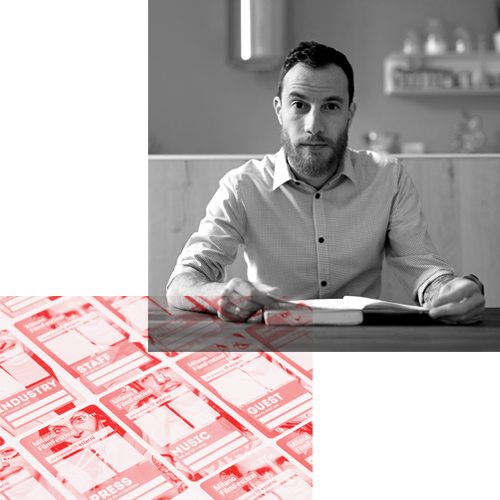
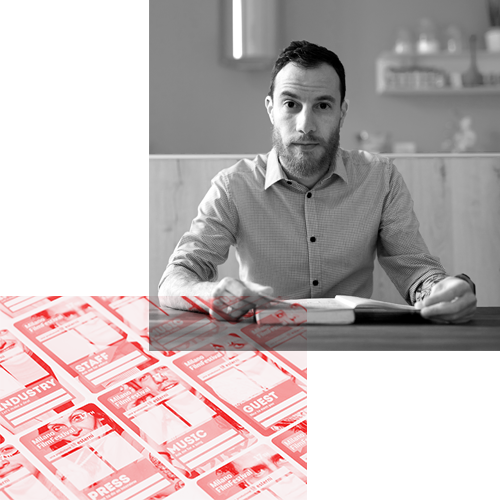
Hero Update

diff --git a/src/components/hero.jsx b/src/components/hero.jsx
@@ -103,13 +103,32 @@ function scrollToArchive() {
 const Hero = () => {
     const data = useStaticQuery(graphql`
         query HeroImage {
-            file(relativePath: { eq: "bitmap-hero.png" }) {
-                childImageSharp {
-                    fluid(
-                        maxWidth: 1000
-                        duotone: { highlight: "#ee0202", shadow: "#ee0202" }
-                    ) {
-                        ...GatsbyImageSharpFluid
+            allMarkdownRemark(
+                filter: {
+                    fileAbsolutePath: { regex: "/extras/" }
+                    frontmatter: { content_type: { eq: "Conversazione" } }
+                }
+                limit: 1
+                sort: { order: DESC, fields: frontmatter___date }
+            ) {
+                edges {
+                    node {
+                        frontmatter {
+                            name
+                            conv_bitmap {
+                                childImageSharp {
+                                    fluid(
+                                        maxWidth: 800
+                                        duotone: {
+                                            highlight: "#ee0202"
+                                            shadow: "#ee0202"
+                                        }
+                                    ) {
+                                        ...GatsbyImageSharpFluid
+                                    }
+                                }
+                            }
+                        }
                     }
                 }
             }
@@ -154,7 +173,10 @@ const Hero = () => {
                 <div id="hero-arrows"></div>
             </div>
             <NonStretchedImage
-                fluid={data.file.childImageSharp.fluid}
+                fluid={
+                    data.allMarkdownRemark.edges[0].node.frontmatter.conv_bitmap
+                        .childImageSharp.fluid
+                }
                 imgStyle={{ objectFit: 'contain' }}
                 style={{
                     gridColumn: '8/13',

diff --git a/contents/extras/conversations/paolo-insinga-conversazione.md b/contents/extras/conversations/paolo-insinga-conversazione.md
@@ -3,6 +3,7 @@ name: Paolo Insinga Conversazione
 content_type: Conversazione
 designer:
     - Paolo Insinga
+conv_bitmap: ../../../static/assets/bitmap-hero.png
 date: 2019-11-28T00:00:00.000Z
 ---
 
@@ -30,18 +31,14 @@ Dal punto di vista espressivo, ad esempio, si possono indivisuare i trend attual
 
 Non ho deciso io come singolo ma è stato un lavoro in team che ha coinvolto anche altri uffici e il nostro direttore creativo globale. Per quanto riguarda il rischio non c’è una misura generale, bisogna saper leggere il contesto in cui si sta operando e fornire al cliente gli strumenti per poter dare fiducia al progetto, anche con analisi di natura economica per individuare i potenziali rischi.
 
-
-
-
-
 ### Com’è venuta l’idea per il nuovo volto della Juventus?
 
 È nata inizialmente su un taccuino facendo degli schizzi e leggendo alcune interviste. Negli archivi abbiamo trovato una citazione di Gianni Agnelli in cui diceva che ogni volta che vedeva la lettera “J” sui giornali si emozionava, subito allora abbiamo pensato che questa lettera contenesse un valore simbolico e l’abbiamo rielaborata tenendo presenti alcuni tratti caratterizzanti del mondo calcistico. Volevamo un segno che fosse capace sia di rappresentare un simbolo per i tifosi sia che fosse idoneo a comparire in altri ambienti.
 
 ### Quanto i tuoi gusti o le tue passioni influenzano la progettazione? 
 
-Noi siamo in generale il prodotto di ciò che consumiamo, quindi lo stesso esercizio di design svolto da team diversi porta sempre a esiti diversi. Questo succede perchè ognuno ha il proprio  background culturale e ciò influenza come si reagisce alle diverse situazioni.
+Noi siamo in generale il prodotto di ciò che consumiamo, quindi lo stesso esercizio di design svolto da team diversi porta sempre a esiti diversi. Questo succede perchè ognuno ha il proprio background culturale e ciò influenza come si reagisce alle diverse situazioni.
 
 ### Ci sono delle esperienze che consideri particolarmente formative per il tuo settore / consigli che vorresti lasciarci?
 
-Io credo molto nella lettura, nel disegnare le proprie idee e nell’ascoltare attivamente le tematiche che si discutono quando si incontra un cliente o un potenziale utente di ciò che si sta progettando. Il disegno è il punto di partenza dell’immaginazione di nuovi mondi, la lettura ti permette di argomentare ciò che stai realizzando per trasferire la tua idea al cliente in modo efficace. Il cliente inoltre conosce sempre meglio di te il settore nel quale opera, quindi questo scambio con il cliente e con chi ha una formazione diversa dalla tua è la ricetta per fare delle belle cose. 
+Io credo molto nella lettura, nel disegnare le proprie idee e nell’ascoltare attivamente le tematiche che si discutono quando si incontra un cliente o un potenziale utente di ciò che si sta progettando. Il disegno è il punto di partenza dell’immaginazione di nuovi mondi, la lettura ti permette di argomentare ciò che stai realizzando per trasferire la tua idea al cliente in modo efficace. Il cliente inoltre conosce sempre meglio di te il settore nel quale opera, quindi questo scambio con il cliente e con chi ha una formazione diversa dalla tua è la ricetta per fare delle belle cose.

diff --git a/contents/extras/conversations/ll-type-design-in-italia.md b/contents/extras/conversations/ll-type-design-in-italia.md
@@ -3,7 +3,8 @@ name: Il Type design in Italia
 content_type: Conversazione
 designer:
     - Beatrice D'Agostino
-date: 2019-11-28T00:00:00.000Z
+conv_bitmap: ../../../static/assets/bitmap-hero.png
+date: 2019-11-30T00:00:00.000Z
 ---
 
 ### Ciao Beatrice, chi sei e di cosa ti occupi?
@@ -17,7 +18,7 @@ Mi occupo anche dell’insegnamento della materia e a breve uscirà un carattere
 Durante l'esperienza universitaria non mi sono mai interessata molto a questa materia, ho frequentato durante la triennale la facoltà di moda e mi sono occupata più della parte grafica. Quando poi ho intrapreso il percorso in Design della Comunicazione la tipografia mi ha subito affascinata ma la ritenevo molto difficile, infatti l’amore per il type design è nato in un secondo momento durante il tirocinio a Berlino in uno studio tedesco.  
 Mi è piaciuta da subito l’idea di lavorare su qualcosa in cui i dettagli sono molto importanti ma al tempo stesso quasi impercettibili, infatti quando osservi un alfabeto o un paragrafo realizzato con un determinato carattere, non vedi i dettagli delle singole lettere ma ciò che sono in grado di restituirti nel loro insieme, questa è la magia del type design.
 
-![Il type design in Italia - Iki Mono Font Showreel](../../static/assets/extra-il-type-design-in-italia-01.png)
+![Il type design in Italia - Iki Mono Font Showreel](../../../static/assets/extra-il-type-design-in-italia-01.png)
 
 ### Come hai vissuto il passaggio da moda a comunicazione?
 
@@ -29,7 +30,7 @@ Ho deciso poi che sarei passata a Comunicazione perché mi piaceva l’idea di f
 
 In Italia ci sono stati tempi d’oro per la tipografia risalenti ad esempio a Manuzio, però poi dopo Novarese questo ambito si è un pò spento e siamo in pochi ora rispetto a prima. Quando sono rientrata da Berlino infatti è piaciuta subito la preparazione che racchiudeva conoscenze di type design e ho trovato il mio spazio qui a Milano.
 
-![Hopper The Rabbit](../../static/assets/extra-il-type-design-in-italia-02.png)
+![Hopper The Rabbit](../../../static/assets/extra-il-type-design-in-italia-02.png)
 
 ### Cosa dovremmo fare per rimanere al passo?
 

diff --git a/contents/designers/alice-beniero.md b/contents/designers/alice-beniero.md
@@ -1,29 +1,29 @@
 ---
 name: Alice Beniero
 job:
-  company: '-'
-  type: Freelancer
+    company: '-'
+    type: Freelancer
 jobFields:
-  - Graphic design
-  - Editorial design
-  - Illustration
+    - Graphic design
+    - Editorial design
+    - Illustration
 based:
-  city: Venezia
-  country: Italia
+    city: Venezia
+    country: Italia
 awards: true
 social:
-  behance: 'https://www.behance.net/alicebeniero'
-  dribbble: ''
-  github: ''
-  instagram: 'https://www.instagram.com/alicebeniero/?hl=it'
-  linkedin: 'https://www.linkedin.com/in/alice-beniero-a1718a5a/'
-  medium: ''
-  podcast: ''
-  twitter: ''
-  vimeo: ''
-  youtube: ''
+    behance: 'https://www.behance.net/alicebeniero'
+    dribbble: ''
+    github: ''
+    instagram: 'https://www.instagram.com/alicebeniero/?hl=it'
+    linkedin: 'https://www.linkedin.com/in/alice-beniero-a1718a5a/'
+    medium: ''
+    podcast: ''
+    twitter: ''
+    vimeo: ''
+    youtube: ''
 date: 2019-11-01T00:00:00.000Z
-img: ../../static/assets/designer-beatrice-dagostino.png
+img: ../../static/assets/designer-alice-beniero.png
 ---
 
 Sono Alice e mi occupo di illustrazione editoriale e progettazione grafica. Ho studiato Design della comunicazione al Politecnico di Milano.
